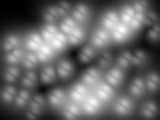
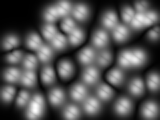
uniqueness weight threshold was hold back to 0 from .5

diff --git a/src/VOCUS2.h b/src/VOCUS2.h
@@ -222,7 +222,7 @@ private:
 	void orientation();
 
 	// computes the uniqueness of a map by counting the local maxima
-	float compute_uniqueness_weight(Mat& map, float t=0.f);
+	float compute_uniqueness_weight(Mat& map, float t=0.5f);
 	void census_transform(const Mat &img, Mat &out);
 
 
